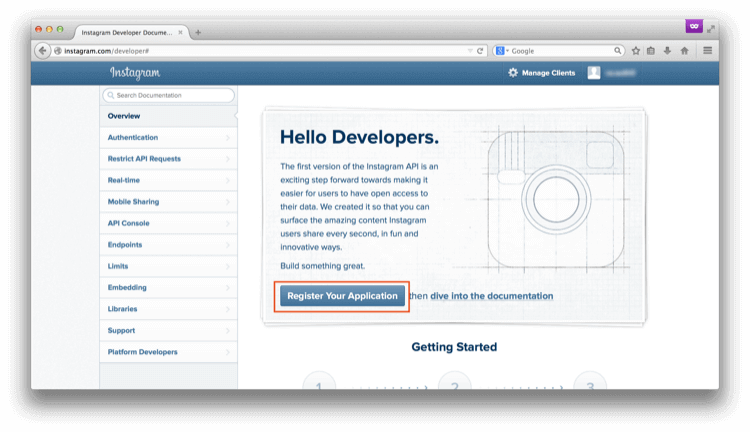
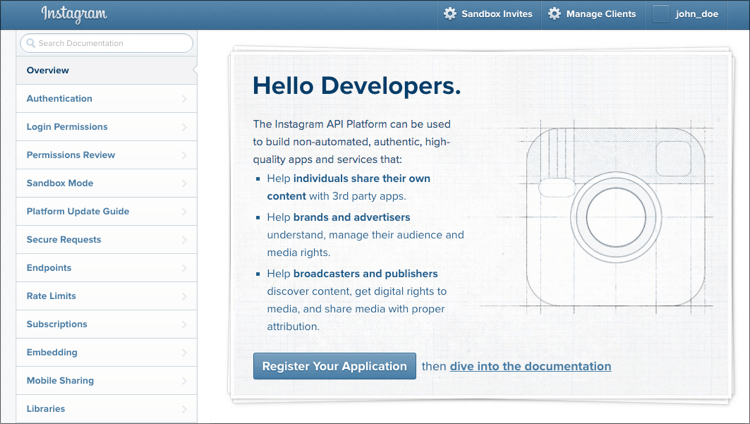
[update] Instagram Connect - New screenshots, instructions, description.

diff --git a/articles/connections/social/instagram.md b/articles/connections/social/instagram.md
@@ -2,15 +2,22 @@
 connection: Instagram
 image: /media/connections/instagram.png
 seo_alias: instagram
+description: This page shows you how to connect your Auth0 app to Instagram. You will need to generate keys, copy these into your Auth0 settings, and enable the connection.
 ---
 
-# Obtain a *Client ID* and *Client Secret* for Instagram
+# Connect your app to Instagram
 
-To configure Instagram OAuth2 connections, you will need to register Auth0 with Instagram on their Developer portal.
+To connect your Auth0 app to Instagram, you will need to generate a *Client ID* and *Client Secret* in an Instagram app, copy these keys into your Auth0 settings, and enable the connection.
 
 ## 1. Log into the developer portal
 
-Go to the Instagram [Developer portal](http://instagram.com/developer) and log in with your Instagram credentials. Click on **Register Your Application**:
+Go to the Instagram [Developer portal](http://instagram.com/developer) and log in with your Instagram credentials. 
+
+If asked, complete the Developer Signup:
+
+![](/media/articles/connections/social/instagram/instagram-devportal-0.png)
+
+On the page that follows, click **Register Your Application**:
 
 ![](/media/articles/connections/social/instagram/instagram-devportal-1.png)
 
@@ -20,11 +27,15 @@ Click **Register a New Client**:
 
 ![](/media/articles/connections/social/instagram/instagram-devportal-2.png)
 
-## 3. Complete information about your instance of Auth0
+## 3. Enter your callback URL
 
-Complete the form. Enter this URL as a **Valid redirect URI** and click **Register**:
+Complete the form. Enter these values in the following fields:
 
-	https://${account.namespace}/login/callback
+**Website URL**: `https://${account.namespace}`
+
+**Valid redirect URI**: `https://${account.namespace}/login/callback`
+	
+Click **Register**.
 
 ![](/media/articles/connections/social/instagram/instagram-devportal-3.png)
 
@@ -34,8 +45,40 @@ Once your app is registered, your `Client Id` and `Client Secret` will be displa
 
 ![](/media/articles/connections/social/instagram/instagram-devportal-4.png)
 
-## 5. Copy your *Client Id* and *Client Secret*
+## 5. Copy your *Client Id* and *Client Secret* into Auth0
 
-Go to your [Auth0 Dashboard](${uiURL}) and select **Connections > Social**, then choose **Instagram**. Copy the `Client Id` and `Client Secret` from the **Manage Clients** page of the Instagram Developer portal into the fields on this page on Auth0.
+In a separate window, login to your [Auth0 Dashboard](${uiURL}) and select **Connections > Social** in the left nav. 
+
+Select **Instagram**. 
+
+Copy the `Client Id` and `Client Secret` from the **Manage Clients** page of the Instagram Developer portal into the fields on this page on Auth0.
+
+Select the **Permissions** you want to enable.
+
+Click **SAVE**.
 
 ![](/media/articles/connections/social/instagram/instagram-devportal-5.png)
+
+## 6 Enable the Connection
+
+Go to the **Apps** tab of the Instagram connection on Auth0 and select each of your existing Auth0 apps for which you want to enable this connection:
+
+![](/media/articles/connections/social/instagram/instagram-devportal-6.png)
+
+## 7 Test the connection
+
+Close the **Settings** window to return to the [Connections > Social](${uiURL}/#/conncetions/social) section of the Auth0 dashboard.
+
+A **TRY** icon will now be displayed next to the Instagram logo:
+
+![](/media/articles/connections/social/instagram/instagram-devportal-7.png)
+
+Click **TRY**.
+
+Click **Authorize** to allow your app access.
+
+![](/media/articles/connections/social/instagram/instagram-devportal-7a.png)
+
+If you have configured everything correctly, you will see the **It works!!!** page:
+
+![](/media/articles/connections/social/instagram/instagram-devportal-7b.png)
